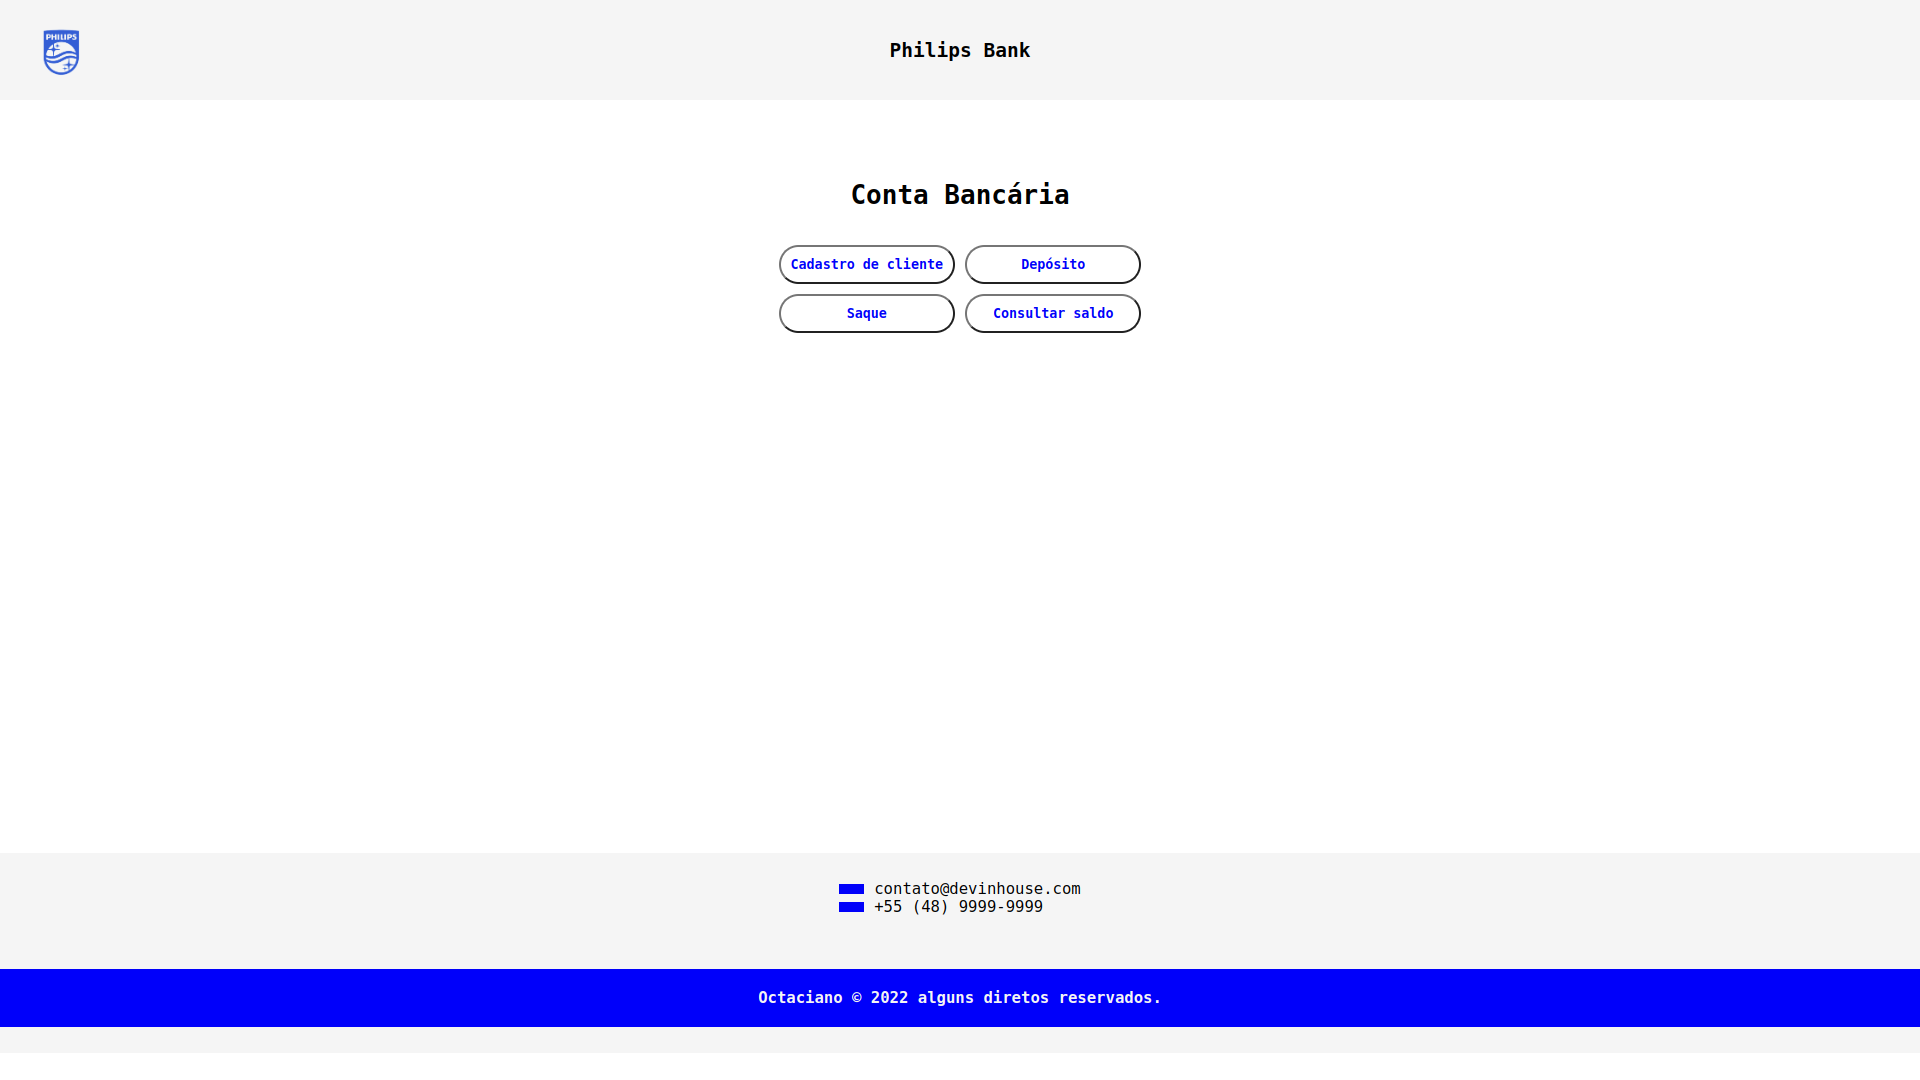
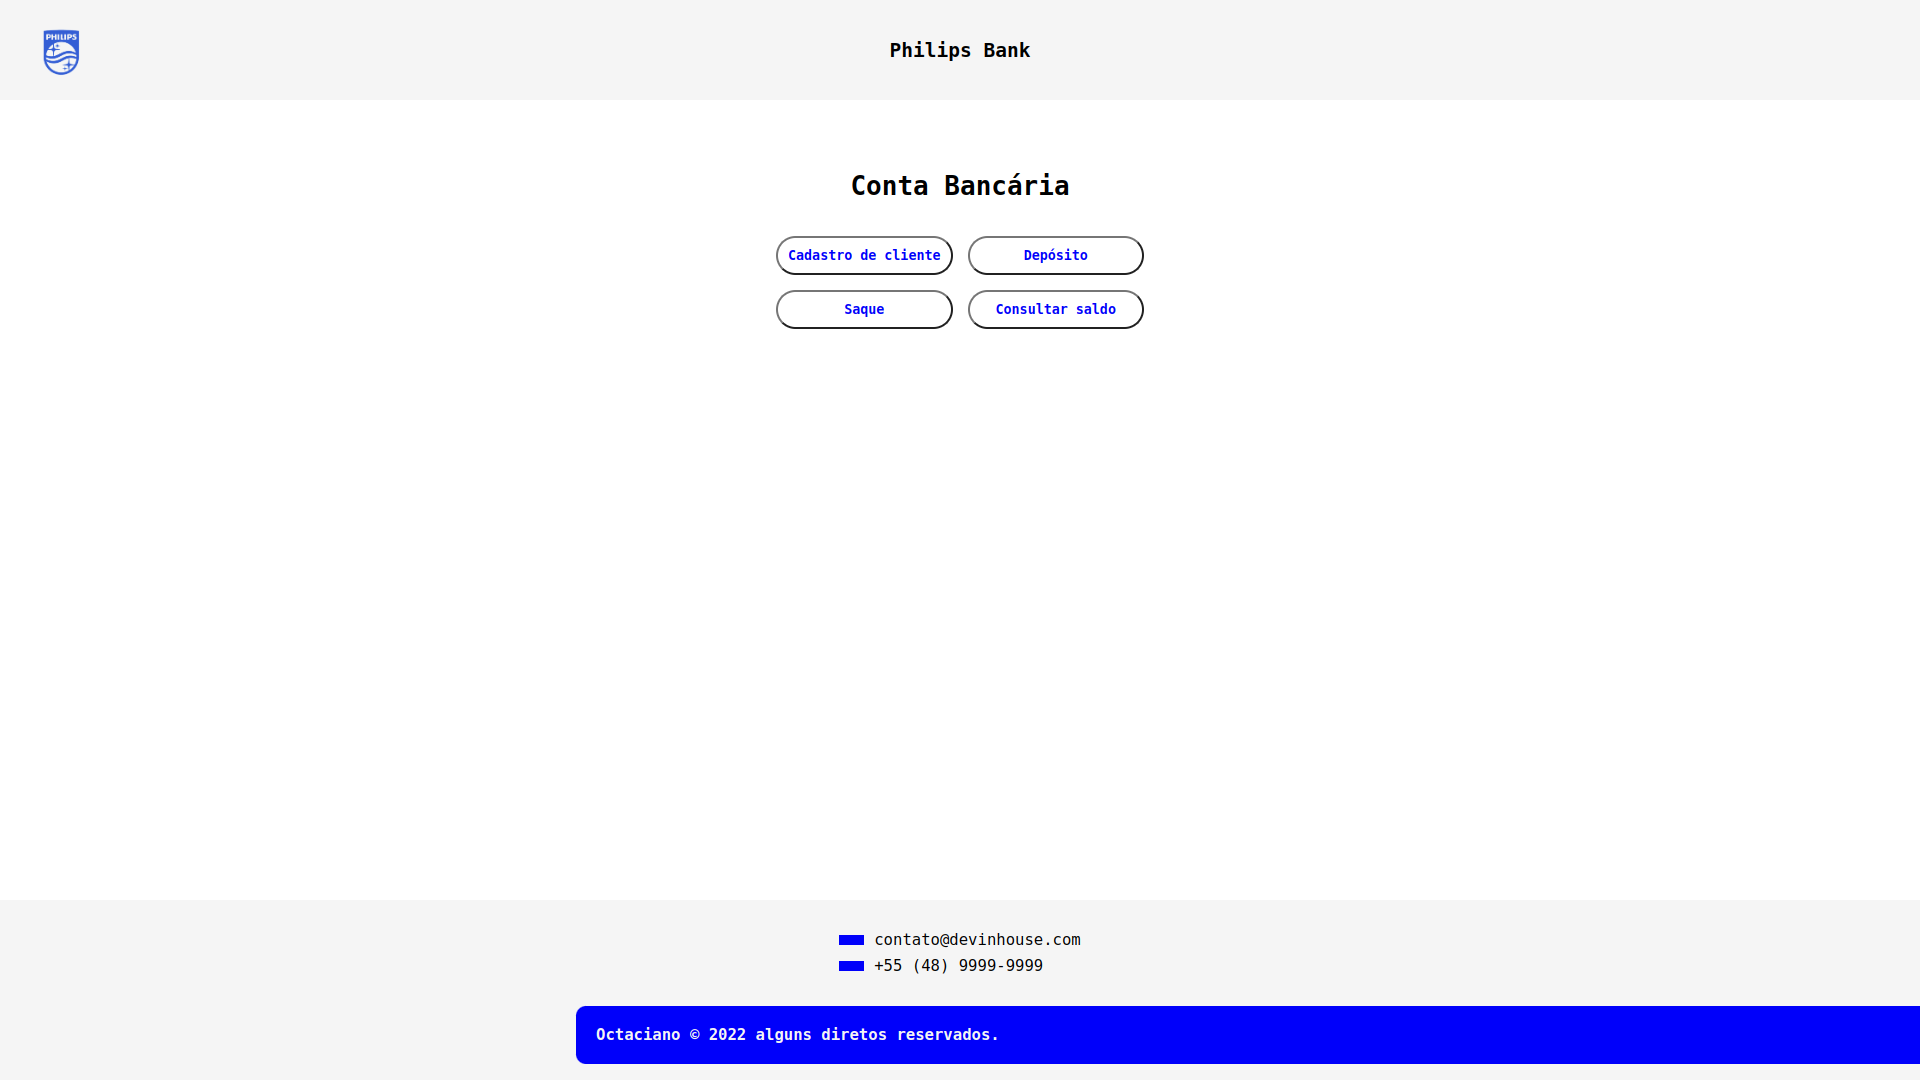
Include banking operations features

Changed region(s): [[0.0, 0.7944, 1.0, 1.0], [0.4062, 0.1528, 0.5938, 0.3056]]

diff --git a/index.js b/index.js
@@ -67,7 +67,7 @@ function createRegisterClients() {
 function createWithdrawal() {
   removeOperacaoAnterior();
   if (operationRow == 0) {
-    const form = constructForm("formWithdrawal");
+    const form = constructForm("formWithdrawal", "withdrawalValue(event)");
 
     const saqueLabel = createLabel("Saque: ");
 
@@ -95,7 +95,7 @@ function createWithdrawal() {
 function createDeposit() {
   removeOperacaoAnterior();
   if (operationRow == 0) {
-    const form = constructForm("formDeposit");
+    const form = constructForm("formDeposit", "depositValue(event)");
     const depositLabel = createLabel("Depósito");
 
     const valueDepositLabel = createLabel("Valor do depósito:", "valueDeposit");
@@ -119,11 +119,10 @@ function createDeposit() {
     operationRow++;
   }
 }
-
 function createCheckBalance() {
   removeOperacaoAnterior();
   if (operationRow == 0) {
-    const form = constructForm("formCheckBalance");
+    const form = constructForm("formCheckBalance", "checkBalanceAccount(event)");
 
     const consultarSaldoLabel = createLabel("Consultar Saldo: ");
 
@@ -141,6 +140,7 @@ function createCheckBalance() {
     operationRow++;
   }
 }
+
 function registerClient(event) {
   event.preventDefault();
 
@@ -166,7 +166,70 @@ function registerClient(event) {
     confirmPassword.value = "";
   }
 }
+function withdrawalValue(event) {
+  event.preventDefault();
 
+  const valueWithdrawal = document.getElementById("valueWithdrawal");
+  const account = document.getElementById("account");
+  const password = document.getElementById("password");
+
+  const confirmAccount = verificaConta(account.value);
+  const confirmPassword = verificaSenha(password.value);
+
+  if (confirmAccount && confirmPassword) {
+    const accountIndex = retornaIndexAccount(account.value);
+    let accountSelect = clients[accountIndex];
+    if (accountSelect.balance >= parseFloat(valueWithdrawal.value)) {
+      accountSelect.balance -= parseFloat(valueWithdrawal.value);
+      alert("Saque efetuado com sucesso!");
+      valueWithdrawal.value = "";
+      account.value = "";
+      password.value = "";
+    } else {
+      alert("Saldo insuficiente para realizar operação!");
+    }
+  } else {
+    alert("Senha ou conta incorreta!");
+  }
+}
+function depositValue(event) {
+  event.preventDefault();
+
+  const valueDeposit = document.getElementById("valueDeposit");
+  const account = document.getElementById("account");
+  const password = document.getElementById("password");
+  // valueDeposit.value, account.value, password.value
+
+  const confirmAccount = verificaConta(account.value);
+  const confirmPassword = verificaSenha(password.value);
+
+  if (confirmAccount && confirmPassword) {
+    const accountIndex = retornaIndexAccount(account.value);
+    clients[accountIndex].balance += parseFloat(valueDeposit.value);
+    alert(`Deposito de ${valueDeposit.value} realizado com sucesso`);
+    valueDeposit.value = "";
+    account.value = "";
+    password.value = "";
+  } else {
+    alert("Conta ou senha inválida");
+  }
+}
+function checkBalanceAccount(event) {
+  event.preventDefault();
+
+  const account = document.getElementById("account");
+
+  const contaVerificada = verificaConta(account.value);
+
+  if (contaVerificada) {
+    const accountIndex = retornaIndexAccount(account.value);
+    const accountSelect = clients[accountIndex];
+    alert("Saldo atual: " + accountSelect.balance);
+    account.value = "";
+  } else {
+    alert("Conta não encontrada!");
+  }
+}
 function gerarConta() {
   if (clients.length < 1) {
     return Math.floor(1000 + Math.random() * 90000);
@@ -219,4 +282,27 @@ function removeOperacaoAnterior() {
     operationRow--;
     operationType = "";
   }
+}
+function verificaConta(conta) {
+  return clients.reduce((acumulador, item) => {
+    if (conta == item.account) {
+      acumulador += "true";
+      return acumulador;
+    }
+  }, "");
+}
+function verificaSenha(conta) {
+  return clients.reduce((acumulador, item) => {
+    if (conta == item.password) {
+      acumulador += "true";
+      return acumulador;
+    }
+  }, "");
+}
+function retornaIndexAccount(conta) {
+  return clients.reduce((valor, item, arr) => {
+    if (conta == item.account) {
+      return arr;
+    }
+  }, "");
 }
